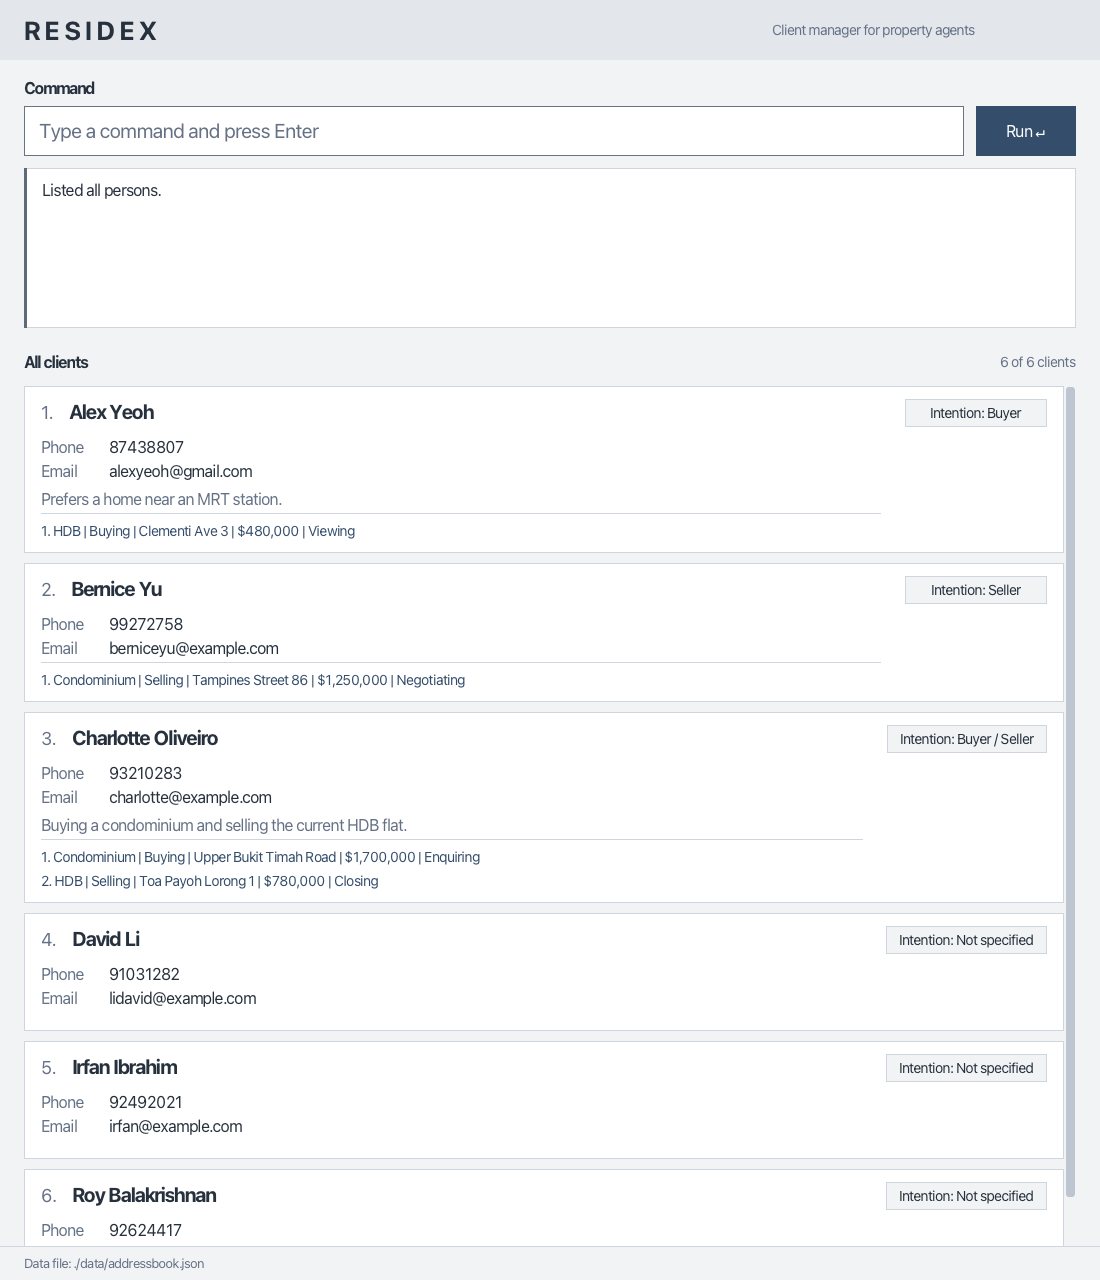
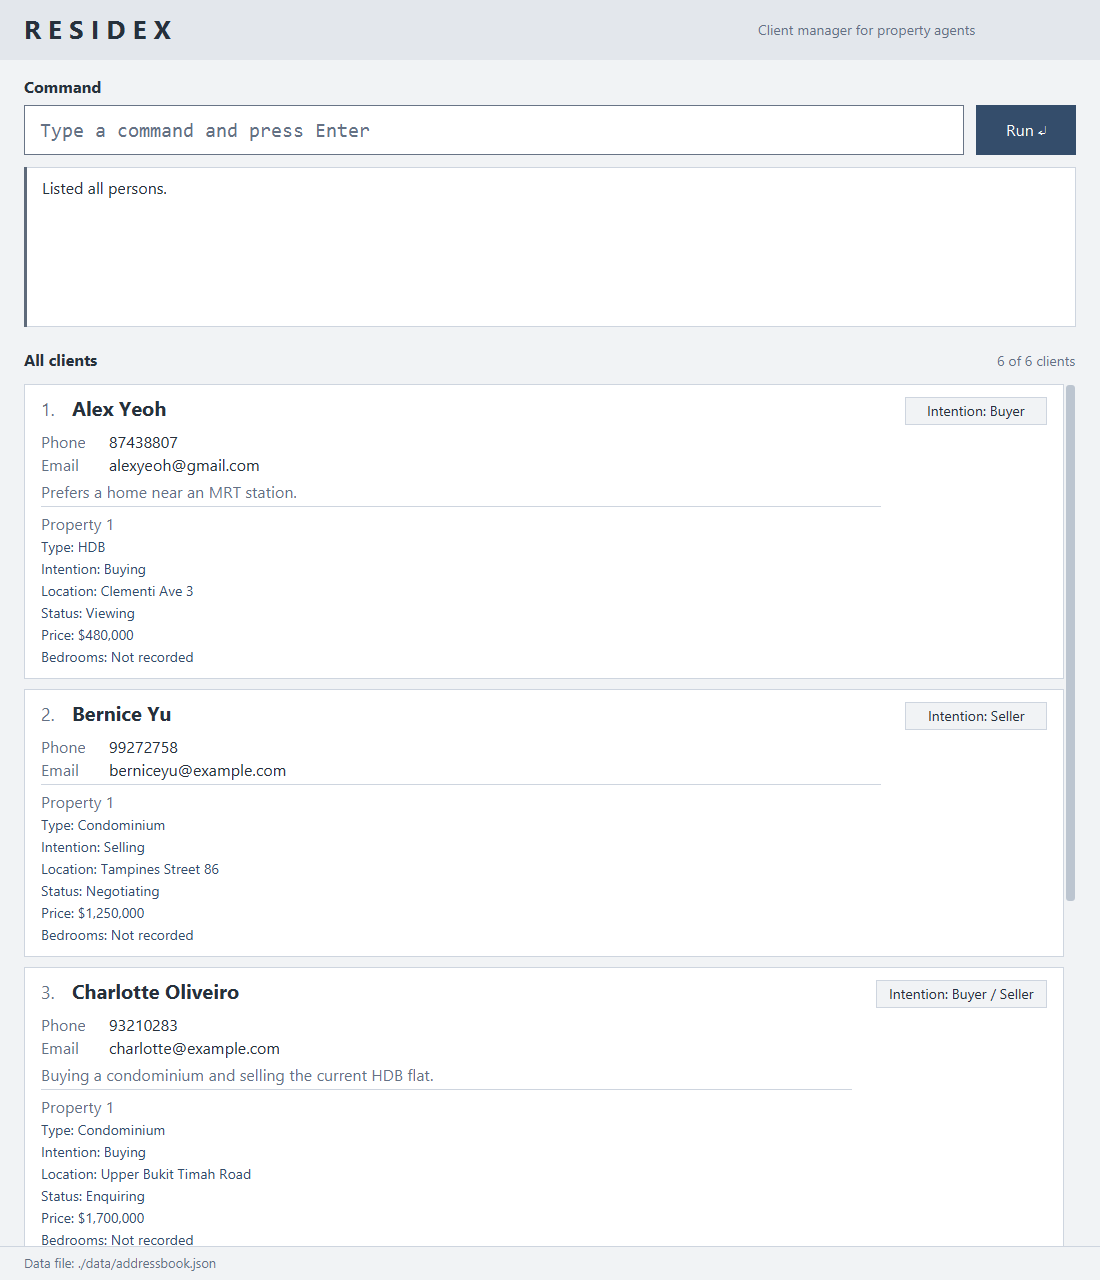
Label property fields on client cards
Label each property field so missing values and locations containing
separators are clear. Show placeholders for absent prices and bedroom
counts, and preserve wrapping at narrow window widths.

Cover tall cards, filtered edits, undo and redo with UI regression tests.
Update the guides and client-list screenshots to match the layout.

Fixes #165

diff --git a/src/test/java/seedu/address/ui/ResidexUiTest.java b/src/test/java/seedu/address/ui/ResidexUiTest.java
@@ -761,10 +761,10 @@ public class ResidexUiTest {
     }
 
     @Test
-    public void clientCards_showNumberedPropertiesWithAndWithoutPrices() throws Exception {
+    public void clientCards_showLabelledPropertiesWithAndWithoutOptionalValues() throws Exception {
         runOnFxThread(() -> {
             Property viewing = new Property(TAMPINES_CONDO.getType(), TAMPINES_CONDO.getIntention(),
-                    TAMPINES_CONDO.getLocation(), null, PropertyStatus.VIEWING);
+                    new PropertyLocation("HDB | Tampines"), null, PropertyStatus.VIEWING, new PropertyBedrooms("3"));
             Person person = new PersonBuilder().withProperties(CLEMENTI_HDB, viewing, CLEMENTI_HDB).build();
             Region card = new PersonCard(person, 2).getRoot();
             styleCard(card);
@@ -773,23 +773,32 @@ public class ResidexUiTest {
             assertTrue(properties.isManaged());
             assertEquals(3, properties.getChildren().size());
             assertEquals("Intention: Buyer / Seller", label(card, "intention").getText());
-            assertEquals(List.of("1. HDB | Buying | Clementi Ave 3 | $800,000 | Not specified",
-                    "2. Condominium | Selling | Tampines | Viewing",
-                    "3. HDB | Buying | Clementi Ave 3 | $800,000 | Not specified"),
+            assertEquals(List.of(
+                    List.of("Property 1", "Type: HDB", "Intention: Buying", "Location: Clementi Ave 3",
+                            "Status: Not specified", "Price: $800,000", "Bedrooms: Not recorded"),
+                    List.of("Property 2", "Type: Condominium", "Intention: Selling", "Location: HDB | Tampines",
+                            "Status: Viewing", "Price: Not recorded", "Bedrooms: 3"),
+                    List.of("Property 3", "Type: HDB", "Intention: Buying", "Location: Clementi Ave 3",
+                            "Status: Not specified", "Price: $800,000", "Bedrooms: Not recorded")),
                     propertyTexts(properties));
             for (Node node : properties.getChildren()) {
-                Label property = (Label) node;
-                assertTrue(property.getStyleClass().contains("property-detail"));
-                assertTrue(property.isWrapText());
-                assertEquals(0, property.getMinWidth());
-                assertEquals(Double.MAX_VALUE, property.getMaxWidth());
+                VBox entry = (VBox) node;
+                for (Node field : entry.getChildren().subList(1, entry.getChildren().size())) {
+                    Label value = (Label) field;
+                    assertTrue(value.getStyleClass().contains("property-detail"));
+                    assertTrue(value.isWrapText());
+                    assertEquals(0, value.getMinWidth());
+                    assertEquals(Double.MAX_VALUE, value.getMaxWidth());
+                    assertEquals(Region.USE_PREF_SIZE, value.getMinHeight());
+                }
             }
 
             Region otherClient = new PersonCard(new PersonBuilder().withProperties(CLEMENTI_HDB).build(), 3).getRoot();
             styleCard(otherClient);
             VBox otherProperties = (VBox) otherClient.lookup("#properties");
             assertEquals(1, otherProperties.getChildren().size());
-            assertEquals(List.of("1. HDB | Buying | Clementi Ave 3 | $800,000 | Not specified"),
+            assertEquals(List.of(List.of("Property 1", "Type: HDB", "Intention: Buying", "Location: Clementi Ave 3",
+                    "Status: Not specified", "Price: $800,000", "Bedrooms: Not recorded")),
                     propertyTexts(otherProperties));
         });
     }
@@ -819,7 +828,8 @@ public class ResidexUiTest {
                 assertTrue(properties.isManaged());
                 assertEquals(1, properties.getChildren().size());
                 assertEquals("Intention: Buyer", label(root, "intention").getText());
-                assertEquals(List.of("1. HDB | Buying | Clementi Ave 3 | $800,000 | Viewing"),
+                assertEquals(List.of(List.of("Property 1", "Type: HDB", "Intention: Buying", "Location: Clementi Ave 3",
+                        "Status: Viewing", "Price: $800,000", "Bedrooms: Not recorded")),
                         propertyTexts(properties));
 
                 command.setText("editp 1 1 l/Bishan pr/ s/Negotiating");
@@ -829,7 +839,16 @@ public class ResidexUiTest {
                 properties = (VBox) root.lookup("#properties");
                 assertEquals(1, properties.getChildren().size());
                 assertEquals("Intention: Buyer", label(root, "intention").getText());
-                assertEquals(List.of("1. HDB | Buying | Bishan | Negotiating"), propertyTexts(properties));
+                assertEquals(List.of(List.of("Property 1", "Type: HDB", "Intention: Buying", "Location: Bishan",
+                        "Status: Negotiating", "Price: Not recorded", "Bedrooms: Not recorded")),
+                        propertyTexts(properties));
+
+                runCommand(root, "addp 1 t/Condominium i/Selling l/Tampines bd/2 s/Viewing");
+                runCommand(root, "delp 1 1");
+                properties = (VBox) root.lookup("#properties");
+                assertEquals(List.of(List.of("Property 1", "Type: Condominium", "Intention: Selling",
+                        "Location: Tampines", "Status: Viewing", "Price: Not recorded", "Bedrooms: 2")),
+                        propertyTexts(properties));
 
                 command.setText("delp 1 1");
                 run.fire();
@@ -1052,7 +1071,8 @@ public class ResidexUiTest {
                 runCommand(root, "add n/Property Client p/88110092 e/prop@example.com");
                 runCommand(root, "addp 1 t/HDB i/Buying l/Clementi s/Viewing");
                 assertEquals("1 of 1 clients", label(root, "clientCount").getText());
-                assertEquals("1. HDB | Buying | Clementi | Viewing",
+                assertEquals(List.of("Property 1", "Type: HDB", "Intention: Buying", "Location: Clementi",
+                        "Status: Viewing", "Price: Not recorded", "Bedrooms: Not recorded"),
                         propertyTexts((VBox) root.lookup("#properties")).get(0));
 
                 runCommand(root, "delete 1");
@@ -1271,15 +1291,19 @@ public class ResidexUiTest {
     }
 
     @Test
-    public void clientCards_longEmails_wrapWithoutClippingWhenResized() throws Exception {
+    public void clientCards_longEmailsAndProperties_wrapWithoutClippingWhenResized() throws Exception {
         runOnFxThread(() -> {
             Model model = new ModelManager();
             String reportedEmail = "christopher.alexander.property.management@internationalrealestateconsulting.com";
             String unbrokenEmail = "a".repeat(64) + "@" + "b".repeat(63) + ".com";
+            Property longLocation = new Property(CLEMENTI_HDB.getType(), CLEMENTI_HDB.getIntention(),
+                    new PropertyLocation("HDB | Clementi Avenue 3 near the community centre and MRT station "
+                            + "A".repeat(120)), CLEMENTI_HDB.getPrice().orElseThrow(), PropertyStatus.UNSPECIFIED,
+                    new PropertyBedrooms("3"));
             model.addPerson(new PersonBuilder().withName("Long Email Client").withEmail(reportedEmail)
-                    .withRemark("Call after 6 pm").withProperties(CLEMENTI_HDB, TAMPINES_CONDO).build());
+                    .withRemark("Call after 6 pm").withProperties(longLocation, TAMPINES_CONDO).build());
             model.addPerson(new PersonBuilder().withName("Unbroken Email Client").withEmail(unbrokenEmail)
-                    .withRemark("Arrange a viewing").withProperties(CLEMENTI_HDB).build());
+                    .withRemark("Arrange a viewing").withProperties(longLocation).build());
             MainWindow window = createWindow(model);
             try {
                 for (int width : new int[] {1100, 700, 1100}) {
@@ -1315,6 +1339,30 @@ public class ResidexUiTest {
                         assertTrue(email.localToScene(email.getBoundsInLocal()).getMaxY()
                                 <= remark.localToScene(remark.getBoundsInLocal()).getMinY(),
                                 "Wrapped emails must not overlap the remark below");
+                        VBox properties = (VBox) card.lookup("#properties");
+                        double previousBottom = remark.localToScene(remark.getBoundsInLocal()).getMaxY();
+                        for (Node entry : properties.getChildren()) {
+                            for (Node node : ((VBox) entry).getChildren()) {
+                                Label field = (Label) node;
+                                Text renderedField = (Text) field.lookup(".text");
+                                assertEquals(field.getText(), renderedField.getText(),
+                                        "Property headings and values must be shown in full");
+                                assertTrue(field.getHeight() >= field.prefHeight(field.getWidth()) - 1,
+                                        "Property rows must grow to fit wrapped values");
+                                assertTrue(renderedField.getLayoutBounds().getWidth() <= field.getWidth() + 1,
+                                        "Property text must fit within its row");
+                                assertTrue(previousBottom
+                                        <= field.localToScene(field.getBoundsInLocal()).getMinY(),
+                                        "Property rows must not overlap preceding content");
+                                previousBottom = field.localToScene(field.getBoundsInLocal()).getMaxY();
+                                if (width == 700 && field.getText().startsWith("Location: HDB |")) {
+                                    assertTrue(field.getHeight() > field.getFont().getSize() * 2,
+                                            "Long locations must wrap at the minimum width");
+                                }
+                            }
+                        }
+                        assertTrue(previousBottom <= card.localToScene(card.getBoundsInLocal()).getMaxY(),
+                                "The final property field must fit inside the card");
                         assertTrue(cell.getHeight() >= card.getHeight() + 10,
                                 "The list cell must grow with the card and preserve the gap below it");
                     }
@@ -1326,6 +1374,72 @@ public class ResidexUiTest {
                     }
                     saveSnapshot(root, "client-emails-" + width);
                 }
+            } finally {
+                window.getPrimaryStage().close();
+            }
+        });
+    }
+
+    @Test
+    public void clientCards_propertyEditsAndFiltering_keepTallCardsScrollable() throws Exception {
+        runOnFxThread(() -> {
+            Model model = new ModelManager();
+            Person otherClient = new PersonBuilder().withName("Other Client").withProperties(CLEMENTI_HDB).build();
+            Property longLocation = new Property(CLEMENTI_HDB.getType(), CLEMENTI_HDB.getIntention(),
+                    new PropertyLocation("HDB | Clementi Avenue 3 near the MRT station ".repeat(12)),
+                    CLEMENTI_HDB.getPrice().orElseThrow(), PropertyStatus.UNSPECIFIED, new PropertyBedrooms("1"));
+            model.addPerson(otherClient);
+            model.addPerson(new PersonBuilder().withName("Target Client")
+                    .withProperties(longLocation, TAMPINES_CONDO, CLEMENTI_HDB).build());
+            model.commitAddressBook();
+            MainWindow window = createWindow(model);
+            try {
+                Region root = layoutWindow(window, 700, 600);
+                runCommand(root, "find n/Target");
+                Region card = (Region) root.lookup("#cardPane");
+                ListView<?> list = (ListView<?>) root.lookup("#personListView");
+                double originalHeight = card.getHeight();
+                assertTrue(originalHeight > list.getHeight(), "The test card must exceed the viewport height");
+                VBox properties = (VBox) card.lookup("#properties");
+                assertEquals(3, properties.getChildren().size());
+                assertEquals("Bedrooms: 1", propertyTexts(properties).get(0).get(6));
+                ScrollBar vertical = list.lookupAll(".scroll-bar").stream().map(ScrollBar.class::cast)
+                        .filter(bar -> bar.getOrientation() == Orientation.VERTICAL).findFirst().orElseThrow();
+                assertTrue(vertical.isVisible());
+                vertical.setValue(vertical.getMax());
+                root.layout();
+                VBox lastProperty = (VBox) properties.getChildren().get(2);
+                Node lastField = lastProperty.getChildren().get(6);
+                assertTrue(lastField.localToScene(lastField.getBoundsInLocal()).getMinY()
+                        >= list.localToScene(list.getBoundsInLocal()).getMinY(),
+                        "Scrolling must reveal the last property field");
+                assertTrue(lastField.localToScene(lastField.getBoundsInLocal()).getMaxY()
+                        <= list.localToScene(list.getBoundsInLocal()).getMaxY(),
+                        "The final field must be fully visible at the bottom of a tall card");
+
+                runCommand(root, "editp 1 1 l/Bishan pr/ bd/");
+                card = (Region) root.lookup("#cardPane");
+                assertTrue(card.getHeight() < originalHeight,
+                        "Replacing a long location must release the extra card height");
+                List<List<String>> expected = propertyTexts((VBox) card.lookup("#properties"));
+                assertEquals(List.of("Property 1", "Type: HDB", "Intention: Buying", "Location: Bishan",
+                        "Status: Not specified", "Price: Not recorded", "Bedrooms: Not recorded"), expected.get(0));
+                runCommand(root, "list");
+                assertEquals(otherClient, model.getFilteredPersonList().get(0));
+                runCommand(root, "find n/Target");
+                assertEquals(expected, propertyTexts((VBox) root.lookup("#properties")));
+                runCommand(root, "undo");
+                runCommand(root, "find n/Target");
+                card = (Region) root.lookup("#cardPane");
+                assertEquals(originalHeight, card.getHeight(), 1,
+                        "Undo must restore the tall card's layout as well as its data");
+                assertEquals("Bedrooms: 1", propertyTexts((VBox) card.lookup("#properties")).get(0).get(6));
+                runCommand(root, "redo");
+                runCommand(root, "view 1");
+                runCommand(root, "list");
+                runCommand(root, "find n/Target");
+                assertEquals(expected, propertyTexts((VBox) root.lookup("#properties")),
+                        "Redo and returning from details must preserve the updated labelled fields");
             } finally {
                 window.getPrimaryStage().close();
             }
@@ -1392,7 +1506,9 @@ public class ResidexUiTest {
             assertEquals("RESIDEX", window.getPrimaryStage().getTitle());
             assertEquals("8 of 8 clients", label(root, "clientCount").getText());
             assertTrue(root.lookupAll(".menu-bar").isEmpty());
-            assertEquals(8, root.lookupAll(".client-card").size());
+            ListView<?> list = (ListView<?>) root.lookup("#personListView");
+            assertEquals(8, list.getItems().size());
+            assertFalse(root.lookupAll(".client-card").isEmpty());
             Region card = (Region) root.lookup(".client-card");
             assertEquals(1052, card.getWidth(), 1);
             for (Node node : root.lookupAll(".list-cell")) {
@@ -1415,10 +1531,11 @@ public class ResidexUiTest {
                     assertFalse(bar.isVisible());
                 }
             }
-            ListView<?> list = (ListView<?>) root.lookup("#personListView");
             list.scrollTo(7);
             root.layout();
-            assertNotNull(root.lookup(".client-card"));
+            assertTrue(list.lookupAll(".list-cell").stream().map(ListCell.class::cast)
+                    .anyMatch(cell -> !cell.isEmpty() && cell.getIndex() == 7),
+                    "The last client must remain reachable after increasing card heights");
             saveSnapshot(root, "compact");
 
             Person first = model.getAddressBook().getPersonList().get(0);
@@ -1492,8 +1609,10 @@ public class ResidexUiTest {
         return (Label) root.lookup("#" + id);
     }
 
-    private static List<String> propertyTexts(VBox properties) {
-        return properties.getChildren().stream().map(Label.class::cast).map(Label::getText).toList();
+    private static List<List<String>> propertyTexts(VBox properties) {
+        return properties.getChildren().stream().map(VBox.class::cast)
+                .map(entry -> entry.getChildren().stream().map(Label.class::cast).map(Label::getText).toList())
+                .toList();
     }
 
     private static void saveSnapshot(Region root, String name) throws Exception {

diff --git a/src/main/java/seedu/address/ui/PersonCard.java b/src/main/java/seedu/address/ui/PersonCard.java
@@ -6,6 +6,7 @@ import javafx.scene.layout.HBox;
 import javafx.scene.layout.Region;
 import javafx.scene.layout.VBox;
 import seedu.address.model.person.Person;
+import seedu.address.model.property.Property;
 
 /**
  * A UI component that displays information of a {@code Person}.
@@ -13,6 +14,7 @@ import seedu.address.model.person.Person;
 public class PersonCard extends UiPart<Region> {
 
     private static final String FXML = "PersonListCard.fxml";
+    private static final String NOT_RECORDED = "Not recorded";
 
     /**
      * Note: Certain keywords such as "location" and "resources" are reserved keywords in JavaFX.
@@ -55,15 +57,40 @@ public class PersonCard extends UiPart<Region> {
         remark.setVisible(!person.getRemark().value.isEmpty());
         remark.setManaged(remark.isVisible());
         for (int i = 0; i < person.getProperties().size(); i++) {
-            Label property = new Label((i + 1) + ". " + person.getProperties().get(i).toDisplay());
-            property.getStyleClass().add("property-detail");
-            property.setWrapText(true);
-            property.setMinWidth(0);
-            property.setMaxWidth(Double.MAX_VALUE);
-            properties.getChildren().add(property);
+            properties.getChildren().add(createPropertyEntry(person.getProperties().get(i), i + 1));
         }
         properties.setVisible(!person.getProperties().isEmpty());
         properties.setManaged(properties.isVisible());
+    }
+
+    /**
+     * Labels each field on its own row so locations and missing values are unambiguous.
+     */
+    private VBox createPropertyEntry(Property property, int index) {
+        Label heading = new Label("Property " + index);
+        heading.getStyleClass().add("field-caption");
+        VBox entry = new VBox(4, heading);
+        entry.setMinWidth(0);
+        addPropertyField(entry, "Type", property.getType().toString());
+        addPropertyField(entry, "Intention", property.getIntention().toString());
+        addPropertyField(entry, "Location", property.getLocation().toString());
+        addPropertyField(entry, "Status", property.getStatus().toString());
+        addPropertyField(entry, "Price", property.getPrice().map(value -> value.toDisplay()).orElse(NOT_RECORDED));
+        addPropertyField(entry, "Bedrooms", property.getBedrooms().map(value -> value.toString()).orElse(NOT_RECORDED));
+        return entry;
+    }
+
+    /**
+     * Adds a wrapping field whose full height is preserved even in a tall client card.
+     */
+    private void addPropertyField(VBox entry, String caption, String value) {
+        Label field = new Label(caption + ": " + value);
+        field.getStyleClass().add("property-detail");
+        field.setWrapText(true);
+        field.setMinWidth(0);
+        field.setMaxWidth(Double.MAX_VALUE);
+        field.setMinHeight(Region.USE_PREF_SIZE);
+        entry.getChildren().add(field);
     }
 
 }

diff --git a/src/main/java/seedu/address/model/property/Property.java b/src/main/java/seedu/address/model/property/Property.java
@@ -90,7 +90,7 @@ public final class Property {
     }
 
     /**
-     * Returns the property details for client cards and command feedback.
+     * Returns compact property details for command feedback.
      */
     public String toDisplay() {
         return type + " | " + intention + " | " + location

diff --git a/docs/DeveloperGuide.md b/docs/DeveloperGuide.md
@@ -543,10 +543,12 @@ live status-filter membership and exact transition-log content/suppression.
 
 #### Property display
 
-`PersonCard` renders one wrapped label per property, using its one-based list position and `Property#toDisplay()`.
-The property list is hidden when empty, and `PersonListPanel` measures each card at its available width so longer locations expand the row.
-Type, property intention, location, a known price and readable status are displayed together;
-an unknown price has no amount, while `UNSPECIFIED` displays as Not specified.
+`PersonCard` renders a numbered heading and separate labelled rows for each property's type, intention,
+location, status, price and bedrooms. An absent price or bedroom count displays as Not recorded;
+`UNSPECIFIED` displays as Status: Not specified. Locations containing `|` stay within their Location row.
+Each field wraps and retains its preferred height. The property list is hidden when empty, and
+`PersonListPanel` measures each card at its available width so longer values expand the card.
+`Property#toDisplay()` retains the compact property format used in command feedback.
 `HelpContent` includes the three property commands and its examples are parsed by `HelpContentTest`.
 
 ### Viewing complete client details
@@ -1354,6 +1356,26 @@ testers are expected to do more *exploratory* testing.
    Expected: The email remains fully readable in both filtered and complete lists.
 4. Repeat with an email containing a long run of letters without separators.<br>
    Expected: The text wraps within the email row and the client card grows to fit it.
+
+### Reading labelled property fields on client cards
+
+1. Add a test client and isolate it with `find`:<br>
+   `add n/Property Label Test p/91009165 e/propertylabels@example.com`<br>
+   `find p/91009165`
+2. Run `addp 1 t/HDB i/Buying l/HDB | Clementi pr/800000 bd/3`, then
+   `addp 1 t/Condominium i/Selling l/Tampines s/Viewing`.<br>
+   Expected: The card shows **Property 1** and **Property 2** in order. Each property has labelled
+   Type, Intention, Location, Status, Price and Bedrooms rows. The first location reads `HDB | Clementi`
+   entirely within the Location row; its status reads `Status: Not specified`. The second property shows
+   `Price: Not recorded` and `Bedrooms: Not recorded`, with `Status: Viewing`.
+3. Run `editp 1 1 l/Clementi Avenue 3 near the community centre and MRT station`, then resize the window
+   to its minimum size and widen it again.<br>
+   Expected: Long rows wrap without ellipses or overlapping the next field or property. All fields remain
+   readable by scrolling vertically, without horizontal scrolling. Recheck the long-email steps above
+   on this client with multiple properties.
+4. Run `list`, then `find p/91009165` again.<br>
+   Expected: Both lists retain the labelled property fields. Run `delp 1 1`; the remaining property becomes
+   **Property 1** and keeps its own labels and values. Run `delete 1` to remove the test client.
 
 ### Viewing complete client details
 

diff --git a/docs/UserGuide.md b/docs/UserGuide.md
@@ -55,8 +55,10 @@ RESIDEX is a **desktop application for property agents managing buyers and selle
 * **Client list:** The heading is **All clients**, **Filtered clients** or **Client details**.
   The count shows how many clients are displayed out of all stored clients.
 * **Client cards:** Each card shows its displayed index, name, phone, email, derived intention,
-  any remark and numbered property summaries. A property summary shows type, intention, location,
-  optional price and transaction status. Clients without properties have intention **Not specified**.
+  any remark and numbered properties. Each property shows labelled rows for **Type**, **Intention**, **Location**,
+  **Status**, **Price** and **Bedrooms**. An absent price or bedroom count reads **Not recorded**;
+  an unset transaction status reads **Status: Not specified**. Long property values wrap within their rows.
+  Clients without properties have intention **Not specified**.
   Long email addresses wrap onto additional lines so the full address remains readable at narrow window widths.
 * **Prices:** Monetary amounts belong to property entries. There is no client budget amount on the right of a card;
   the badge on the right shows the derived intention.
